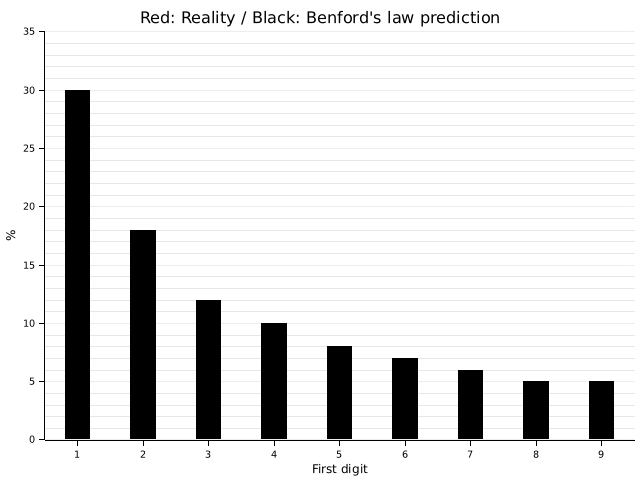
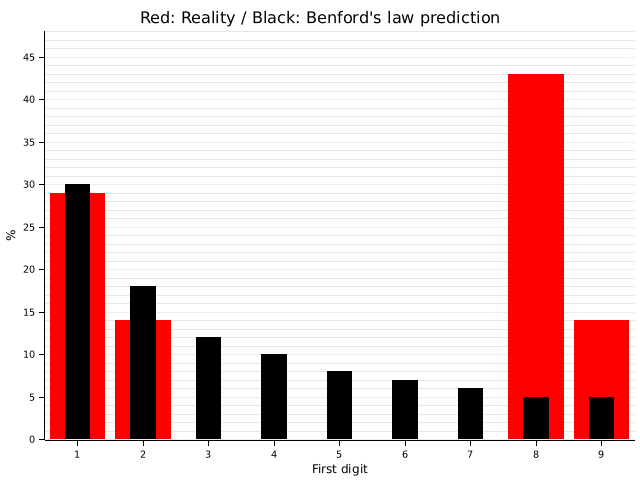
add split chart

diff --git a/src/histogram.rs b/src/histogram.rs
@@ -1,3 +1,4 @@
+use crate::int_to_base;
 use plotters::prelude::*;
 
 pub fn save_histogram(
@@ -53,6 +54,85 @@ pub fn save_histogram(
             .data(benford_predictions)
             .margin(20),
     )?;
+
+    Ok(())
+}
+
+pub fn save_histogram_split(
+    data: Vec<u128>,
+    output_file: &str,
+) -> Result<(), Box<dyn std::error::Error>> {
+    let root = BitMapBackend::new(output_file, (1280, 960))
+        .into_drawing_area()
+        .titled(
+            "Red: Reality / Black: Benford's law prediction",
+            ("sans-serif", 15.0),
+        )
+        .unwrap();
+    root.fill(&WHITE)?;
+
+    let areas = root.split_evenly((4, 3));
+
+    for (i, area) in areas.iter().enumerate() {
+        let base = i as u128 + 3;
+        let benford_predictions = (1..base)
+            .map(|d| {
+                (
+                    d,
+                    ((((d + 1) as f64).log(base as f64) - (d as f64).log(base as f64)) * 100.0)
+                        .round() as u128,
+                )
+            })
+            .collect::<Vec<_>>();
+        let benford_max = benford_predictions.iter().map(|(_, x)| *x).max().unwrap();
+
+        let mut statistics = vec![0; base as usize];
+        for x in &data {
+            statistics[*int_to_base(*x, base).last().unwrap() as usize] += 1;
+        }
+
+        let statistics_percent = statistics
+            .iter()
+            .map(|x| {
+                ((*x as f64 / statistics[1..].iter().sum::<u128>() as f64) * 100.0).round() as u128
+            })
+            .collect::<Vec<_>>();
+
+        let data_max = statistics_percent.iter().max().unwrap();
+        let max = benford_max.max(*data_max);
+
+        let mut chart = ChartBuilder::on(area)
+            .x_label_area_size(35)
+            .y_label_area_size(40)
+            .margin(5)
+            .caption(base.to_string(), ("sans-serif", 15.0))
+            .build_cartesian_2d((1..base - 1).into_segmented(), 0u128..max + 5)?;
+
+        chart
+            .configure_mesh()
+            .disable_x_mesh()
+            .bold_line_style(WHITE.mix(0.3))
+            .y_desc("%")
+            .x_desc("First digit")
+            .axis_desc_style(("sans-serif", 12))
+            .draw()?;
+
+        chart.draw_series(
+            Histogram::vertical(&chart).style(RED.filled()).data(
+                statistics_percent
+                    .iter()
+                    .enumerate()
+                    .map(|(index, x)| (index as u128, *x)),
+            ),
+        )?;
+
+        chart.draw_series(
+            Histogram::vertical(&chart)
+                .style(BLACK.filled())
+                .data(benford_predictions.iter().map(|&(index, x)| (index, x)))
+                .margin(12),
+        )?;
+    }
 
     Ok(())
 }

diff --git a/src/book.rs b/src/book.rs
@@ -1,4 +1,4 @@
-use crate::histogram::save_histogram;
+use crate::histogram::save_histogram_split;
 use std::fs::read_to_string;
 
 const SEPARATOR_STRING: &str = "DMEUISFEDGNGEnyNGEGF*^ng679E67g9E^9nf7egwsn67f^G&EGN^EFN^G&FEG^&feGN^&g(F^6gfe7N^(GFBn9gN(^VE69gN^(GEng697efVG^97VGn6976n79VEFg6n79EYGFEHJEYUGgFEFEFEF][e]f[E}[EUHEG&*G]]))))"; // A string that can't occur in the given text
@@ -14,31 +14,17 @@ pub fn book() {
         contents = contents.replace("  ", " ");
     }
 
-    contents = contents.replace("“", r#"""#).replace("”", r#"""#);
-
-    for substr in [". ", r#"." "#, r#"?" "#, r#"!" "#] {
+    for substr in [". ", r#".” "#, r#"?” "#, r#"!” "#] {
         contents = contents.replace(substr, &(substr.to_string() + SEPARATOR_STRING));
     }
 
-    let mut statistics: [u128; 10] = [0; 10];
+    let mut lengths = Vec::new();
 
-    for sentence in contents.split(SEPARATOR_STRING).collect::<Vec<_>>() {
-        statistics[(sentence.len() - 1)
-            .to_string()
-            .chars()
-            .next()
-            .unwrap()
-            .to_string()
-            .parse::<usize>()
-            .unwrap()] += 1;
+    for sentence in contents.split(SEPARATOR_STRING) {
+        if !sentence.is_empty() {
+            lengths.push(sentence.len() as u128);
+        }
     }
 
-    let n = statistics.iter().sum::<u128>();
-
-    save_histogram(
-        10,
-        statistics.map(|x| x as f64 / n as f64).to_vec(),
-        "book.png",
-    )
-    .unwrap();
+    save_histogram_split(lengths, "book.png").unwrap();
 }
